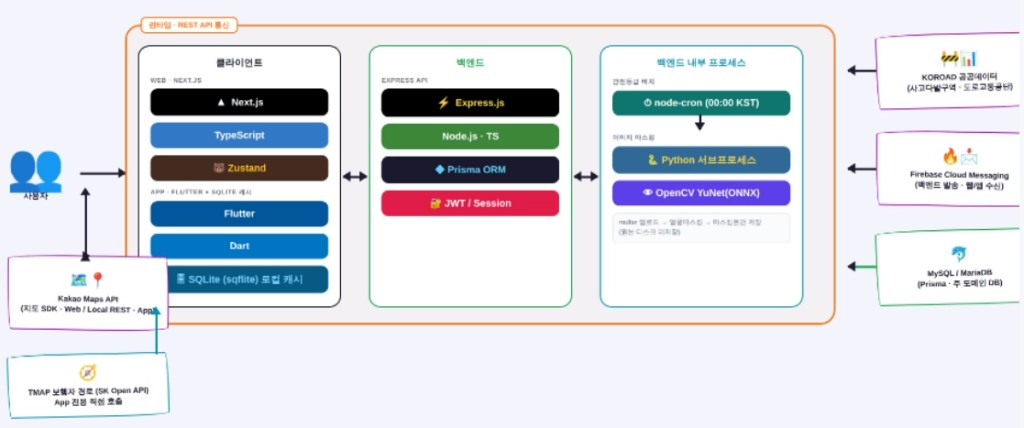
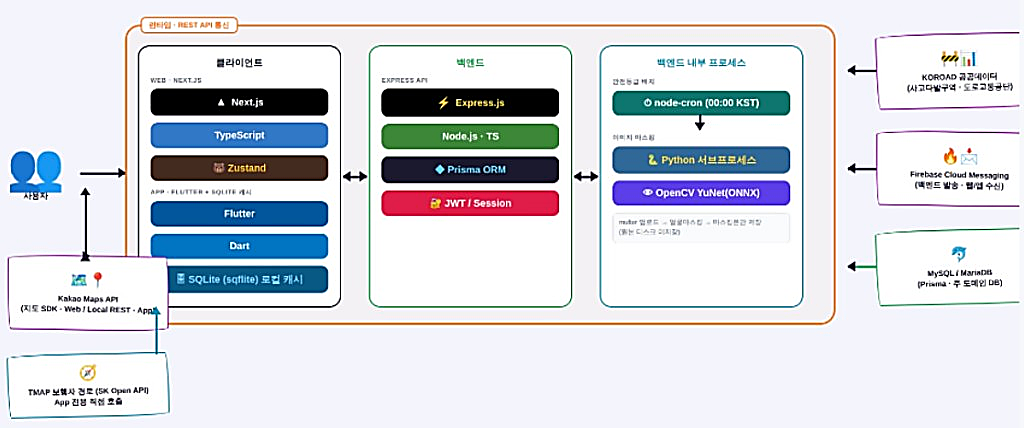
Add wheel zoom and pan in the architecture lightbox, and save the diagrams as sharper PNGs.

diff --git a/src/components/ImageSlot.jsx b/src/components/ImageSlot.jsx
@@ -1,4 +1,109 @@
-import { useEffect, useState } from 'react';
+import { useEffect, useRef, useState } from 'react';
+
+const MIN_SCALE = 1;
+const MAX_SCALE = 8;
+
+function DiagramLightbox({ src, alt, onClose }) {
+  const stageRef = useRef(null);
+  const [view, setView] = useState({ scale: 1, x: 0, y: 0 });
+  const dragRef = useRef(null);
+
+  useEffect(() => {
+    const handleKeyDown = (event) => {
+      if (event.key === 'Escape') onClose();
+    };
+
+    document.body.style.overflow = 'hidden';
+    window.addEventListener('keydown', handleKeyDown);
+
+    return () => {
+      document.body.style.overflow = '';
+      window.removeEventListener('keydown', handleKeyDown);
+    };
+  }, [onClose]);
+
+  useEffect(() => {
+    const stage = stageRef.current;
+    if (!stage) return undefined;
+
+    const handleWheel = (event) => {
+      event.preventDefault();
+      const factor = event.deltaY < 0 ? 1.12 : 1 / 1.12;
+      const rect = stage.getBoundingClientRect();
+      const cx = event.clientX - rect.left - rect.width / 2;
+      const cy = event.clientY - rect.top - rect.height / 2;
+
+      setView((prev) => {
+        const nextScale = Math.min(MAX_SCALE, Math.max(MIN_SCALE, prev.scale * factor));
+        const applied = nextScale / prev.scale;
+        if (nextScale <= MIN_SCALE) {
+          return { scale: MIN_SCALE, x: 0, y: 0 };
+        }
+        return {
+          scale: nextScale,
+          x: prev.x + cx * (1 - applied),
+          y: prev.y + cy * (1 - applied),
+        };
+      });
+    };
+
+    stage.addEventListener('wheel', handleWheel, { passive: false });
+    return () => stage.removeEventListener('wheel', handleWheel);
+  }, []);
+
+  const handlePointerDown = (event) => {
+    if (event.button !== 0) return;
+    event.preventDefault();
+    dragRef.current = {
+      x: event.clientX,
+      y: event.clientY,
+      originX: view.x,
+      originY: view.y,
+    };
+    event.currentTarget.setPointerCapture(event.pointerId);
+  };
+
+  const handlePointerMove = (event) => {
+    if (!dragRef.current) return;
+    setView((prev) => ({
+      ...prev,
+      x: dragRef.current.originX + (event.clientX - dragRef.current.x),
+      y: dragRef.current.originY + (event.clientY - dragRef.current.y),
+    }));
+  };
+
+  const handlePointerUp = () => {
+    dragRef.current = null;
+  };
+
+  return (
+    <div className="lightbox" role="presentation" onClick={onClose}>
+      <button type="button" className="lightbox__close" aria-label="닫기">
+        ×
+      </button>
+      <p className="lightbox__hint">스크롤로 확대 · 드래그로 이동 · Esc로 닫기</p>
+      <div
+        ref={stageRef}
+        className={`lightbox__stage${view.scale > 1 ? ' lightbox__stage--zoomed' : ''}`}
+        onClick={(event) => event.stopPropagation()}
+        onPointerDown={handlePointerDown}
+        onPointerMove={handlePointerMove}
+        onPointerUp={handlePointerUp}
+        onPointerCancel={handlePointerUp}
+      >
+        <img
+          src={src}
+          alt={alt}
+          decoding="sync"
+          draggable={false}
+          style={{
+            transform: `translate(${view.x}px, ${view.y}px) scale(${view.scale})`,
+          }}
+        />
+      </div>
+    </div>
+  );
+}
 
 export default function ImageSlot({
   projectId,
@@ -12,22 +117,6 @@ export default function ImageSlot({
   const label = caption || '스크린샷 (추가 예정)';
   const initial = (projectId || 'PF').slice(0, 2).toUpperCase();
   const canZoom = Boolean(imageSrc && (zoomable || variant === 'diagram'));
-
-  useEffect(() => {
-    if (!open) return undefined;
-
-    const handleKeyDown = (event) => {
-      if (event.key === 'Escape') setOpen(false);
-    };
-
-    document.body.style.overflow = 'hidden';
-    window.addEventListener('keydown', handleKeyDown);
-
-    return () => {
-      document.body.style.overflow = '';
-      window.removeEventListener('keydown', handleKeyDown);
-    };
-  }, [open]);
 
   if (imageSrc) {
     return (
@@ -46,16 +135,7 @@ export default function ImageSlot({
         )}
         {variant !== 'thumb' && caption ? <figcaption>{caption}</figcaption> : null}
         {open ? (
-          <div className="lightbox" role="presentation" onClick={() => setOpen(false)}>
-            <button type="button" className="lightbox__close" aria-label="닫기">
-              ×
-            </button>
-            <img
-              src={imageSrc}
-              alt={label}
-              onClick={(event) => event.stopPropagation()}
-            />
-          </div>
+          <DiagramLightbox src={imageSrc} alt={label} onClose={() => setOpen(false)} />
         ) : null}
       </figure>
     );

diff --git a/src/index.css b/src/index.css
@@ -861,26 +861,61 @@ img {
   display: flex;
   align-items: center;
   justify-content: center;
-  padding: 2.5rem 1.25rem 1.25rem;
-  background: rgba(15, 23, 42, 0.82);
+  padding: 3rem 1.25rem 1.25rem;
+  background: rgba(15, 23, 42, 0.88);
   cursor: zoom-out;
 }
 
+.lightbox__hint {
+  position: absolute;
+  top: 0.9rem;
+  left: 50%;
+  transform: translateX(-50%);
+  margin: 0;
+  color: rgba(255, 255, 255, 0.78);
+  font-size: 0.75rem;
+  letter-spacing: 0.02em;
+  pointer-events: none;
+  white-space: nowrap;
+}
+
+.lightbox__stage {
+  max-width: 100%;
+  max-height: 100%;
+  overflow: hidden;
+  cursor: grab;
+  touch-action: none;
+}
+
+.lightbox__stage--zoomed {
+  cursor: grab;
+}
+
+.lightbox__stage:active {
+  cursor: grabbing;
+}
+
 .lightbox img {
+  display: block;
   width: auto;
-  max-width: min(96vw, 1400px);
-  max-height: calc(100vh - 4rem);
+  max-width: min(96vw, 1600px);
+  max-height: calc(100vh - 5rem);
   object-fit: contain;
   background: #fff;
   border-radius: 8px;
-  cursor: default;
+  cursor: inherit;
   box-shadow: 0 16px 48px rgba(0, 0, 0, 0.35);
+  transform-origin: center center;
+  image-rendering: -webkit-optimize-contrast;
+  image-rendering: crisp-edges;
+  user-select: none;
 }
 
 .lightbox__close {
   position: absolute;
   top: 0.75rem;
   right: 0.75rem;
+  z-index: 1;
   width: 2.25rem;
   height: 2.25rem;
   border: 0;
